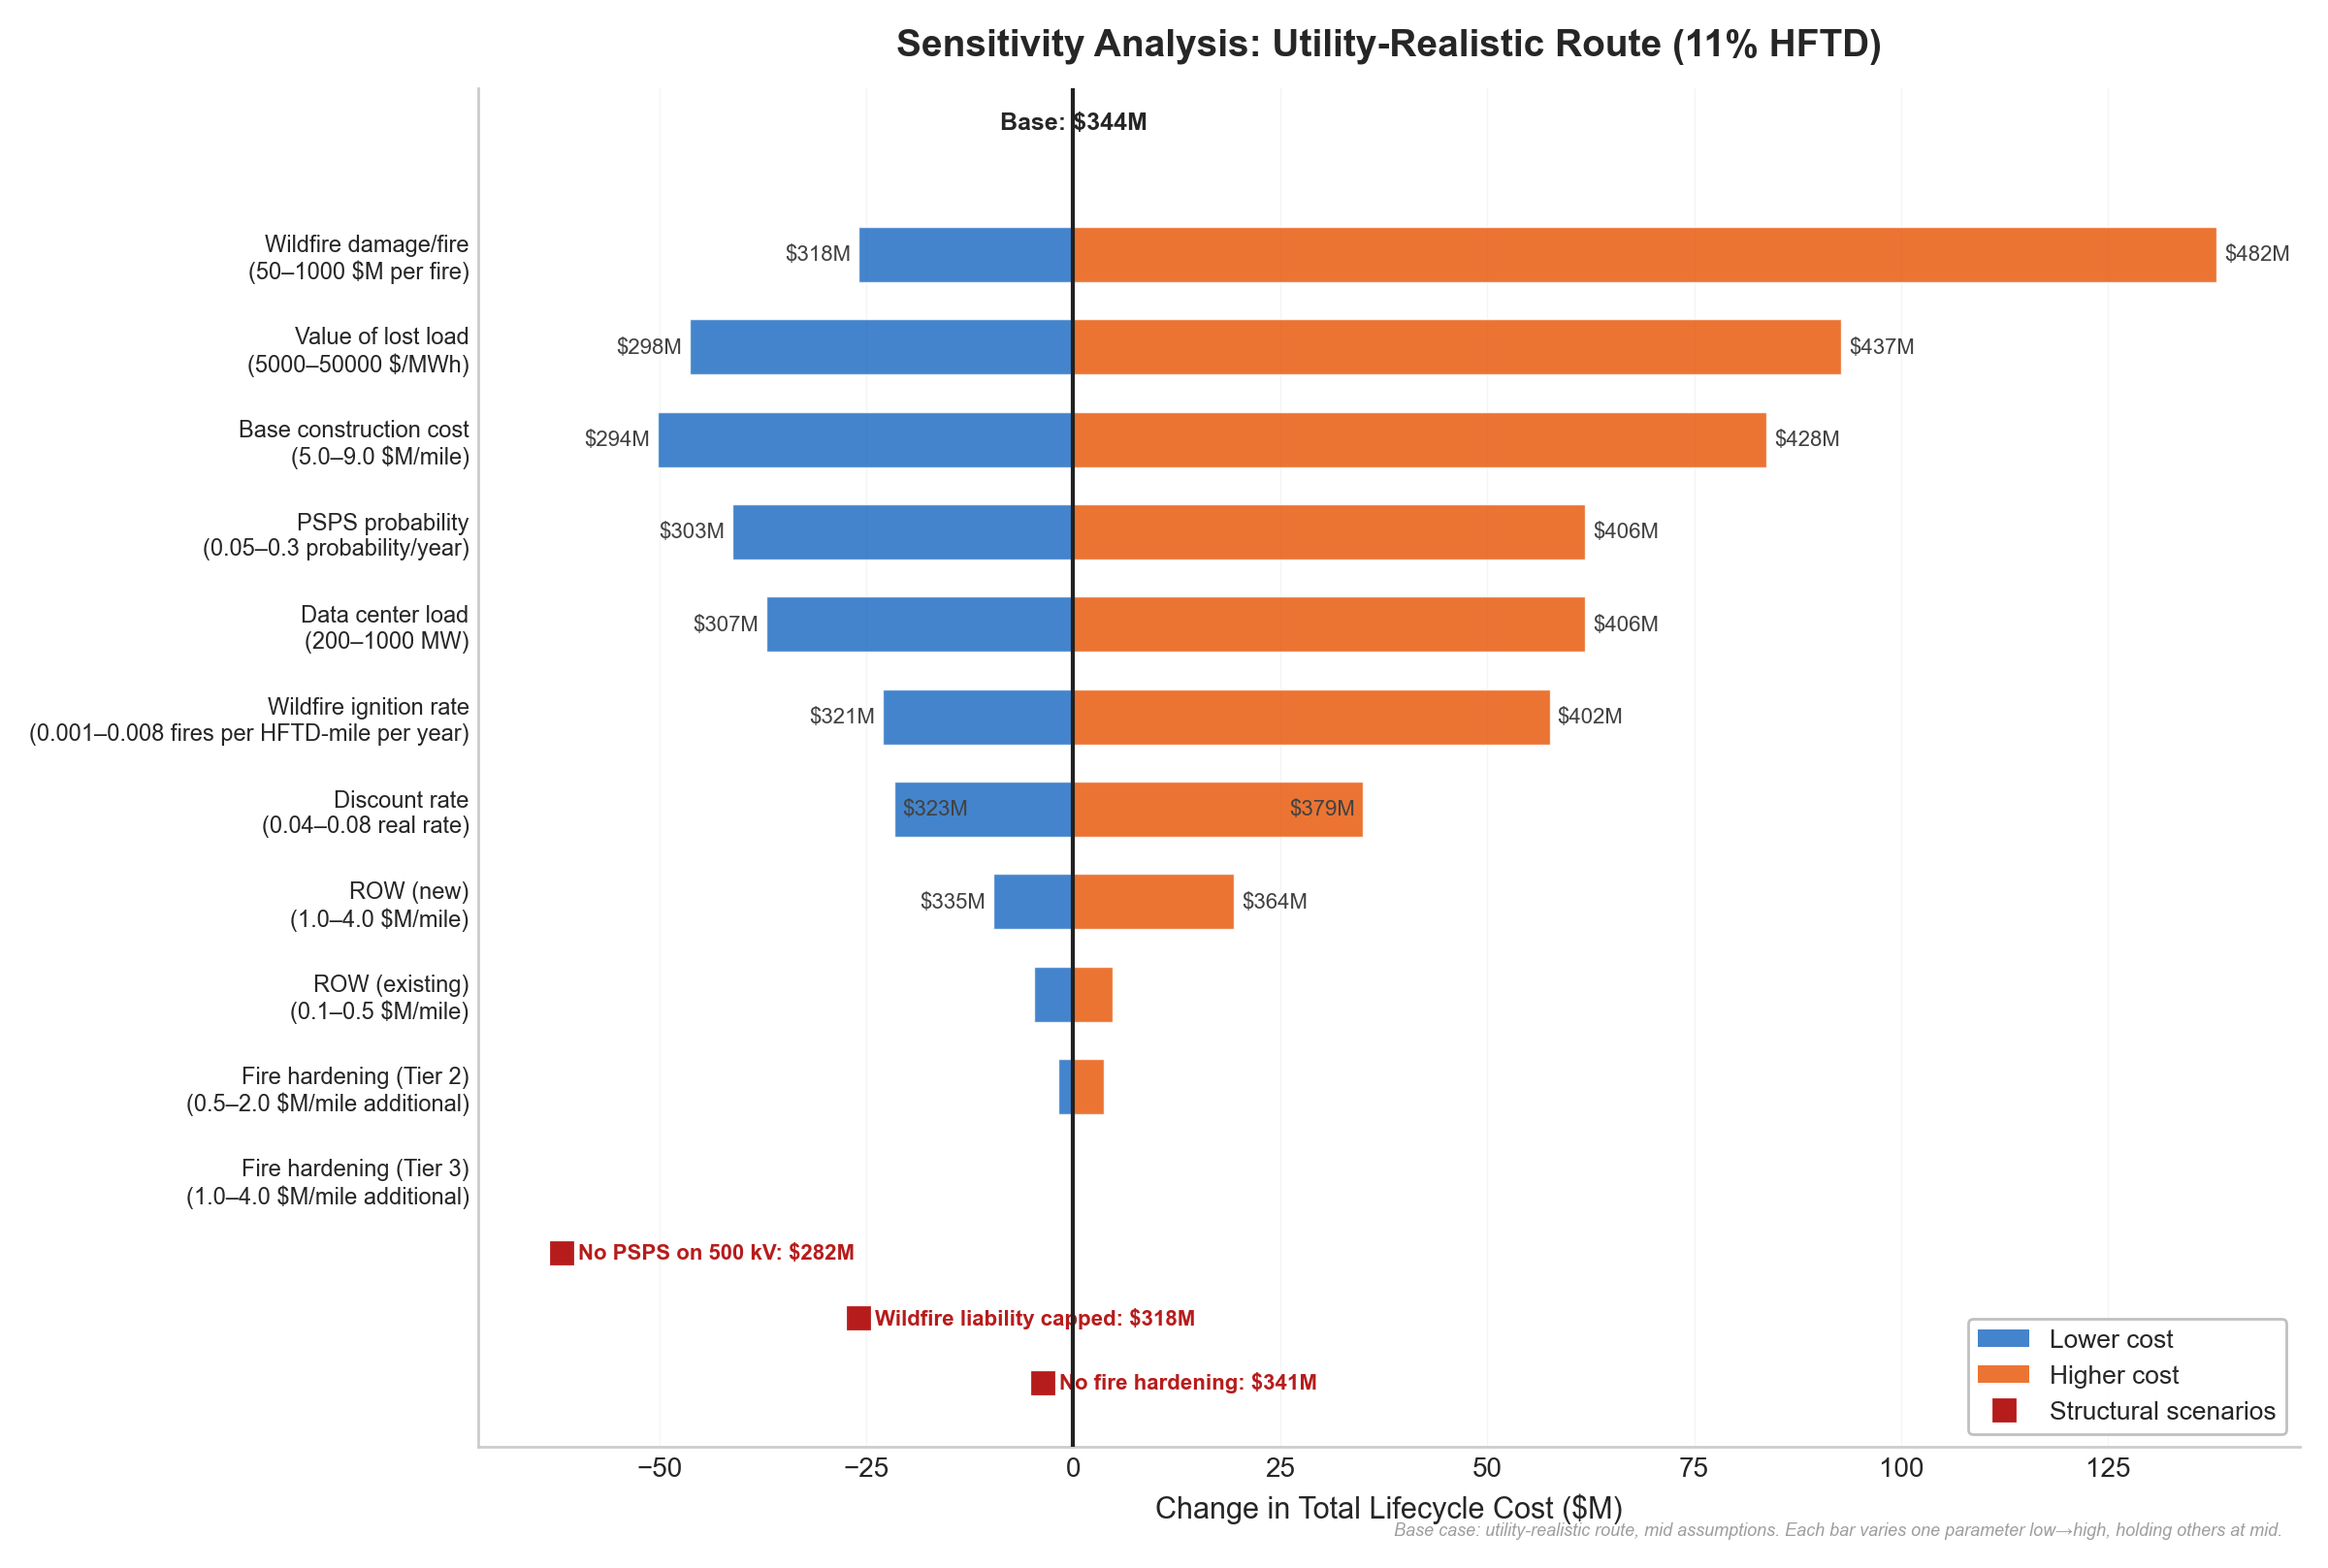
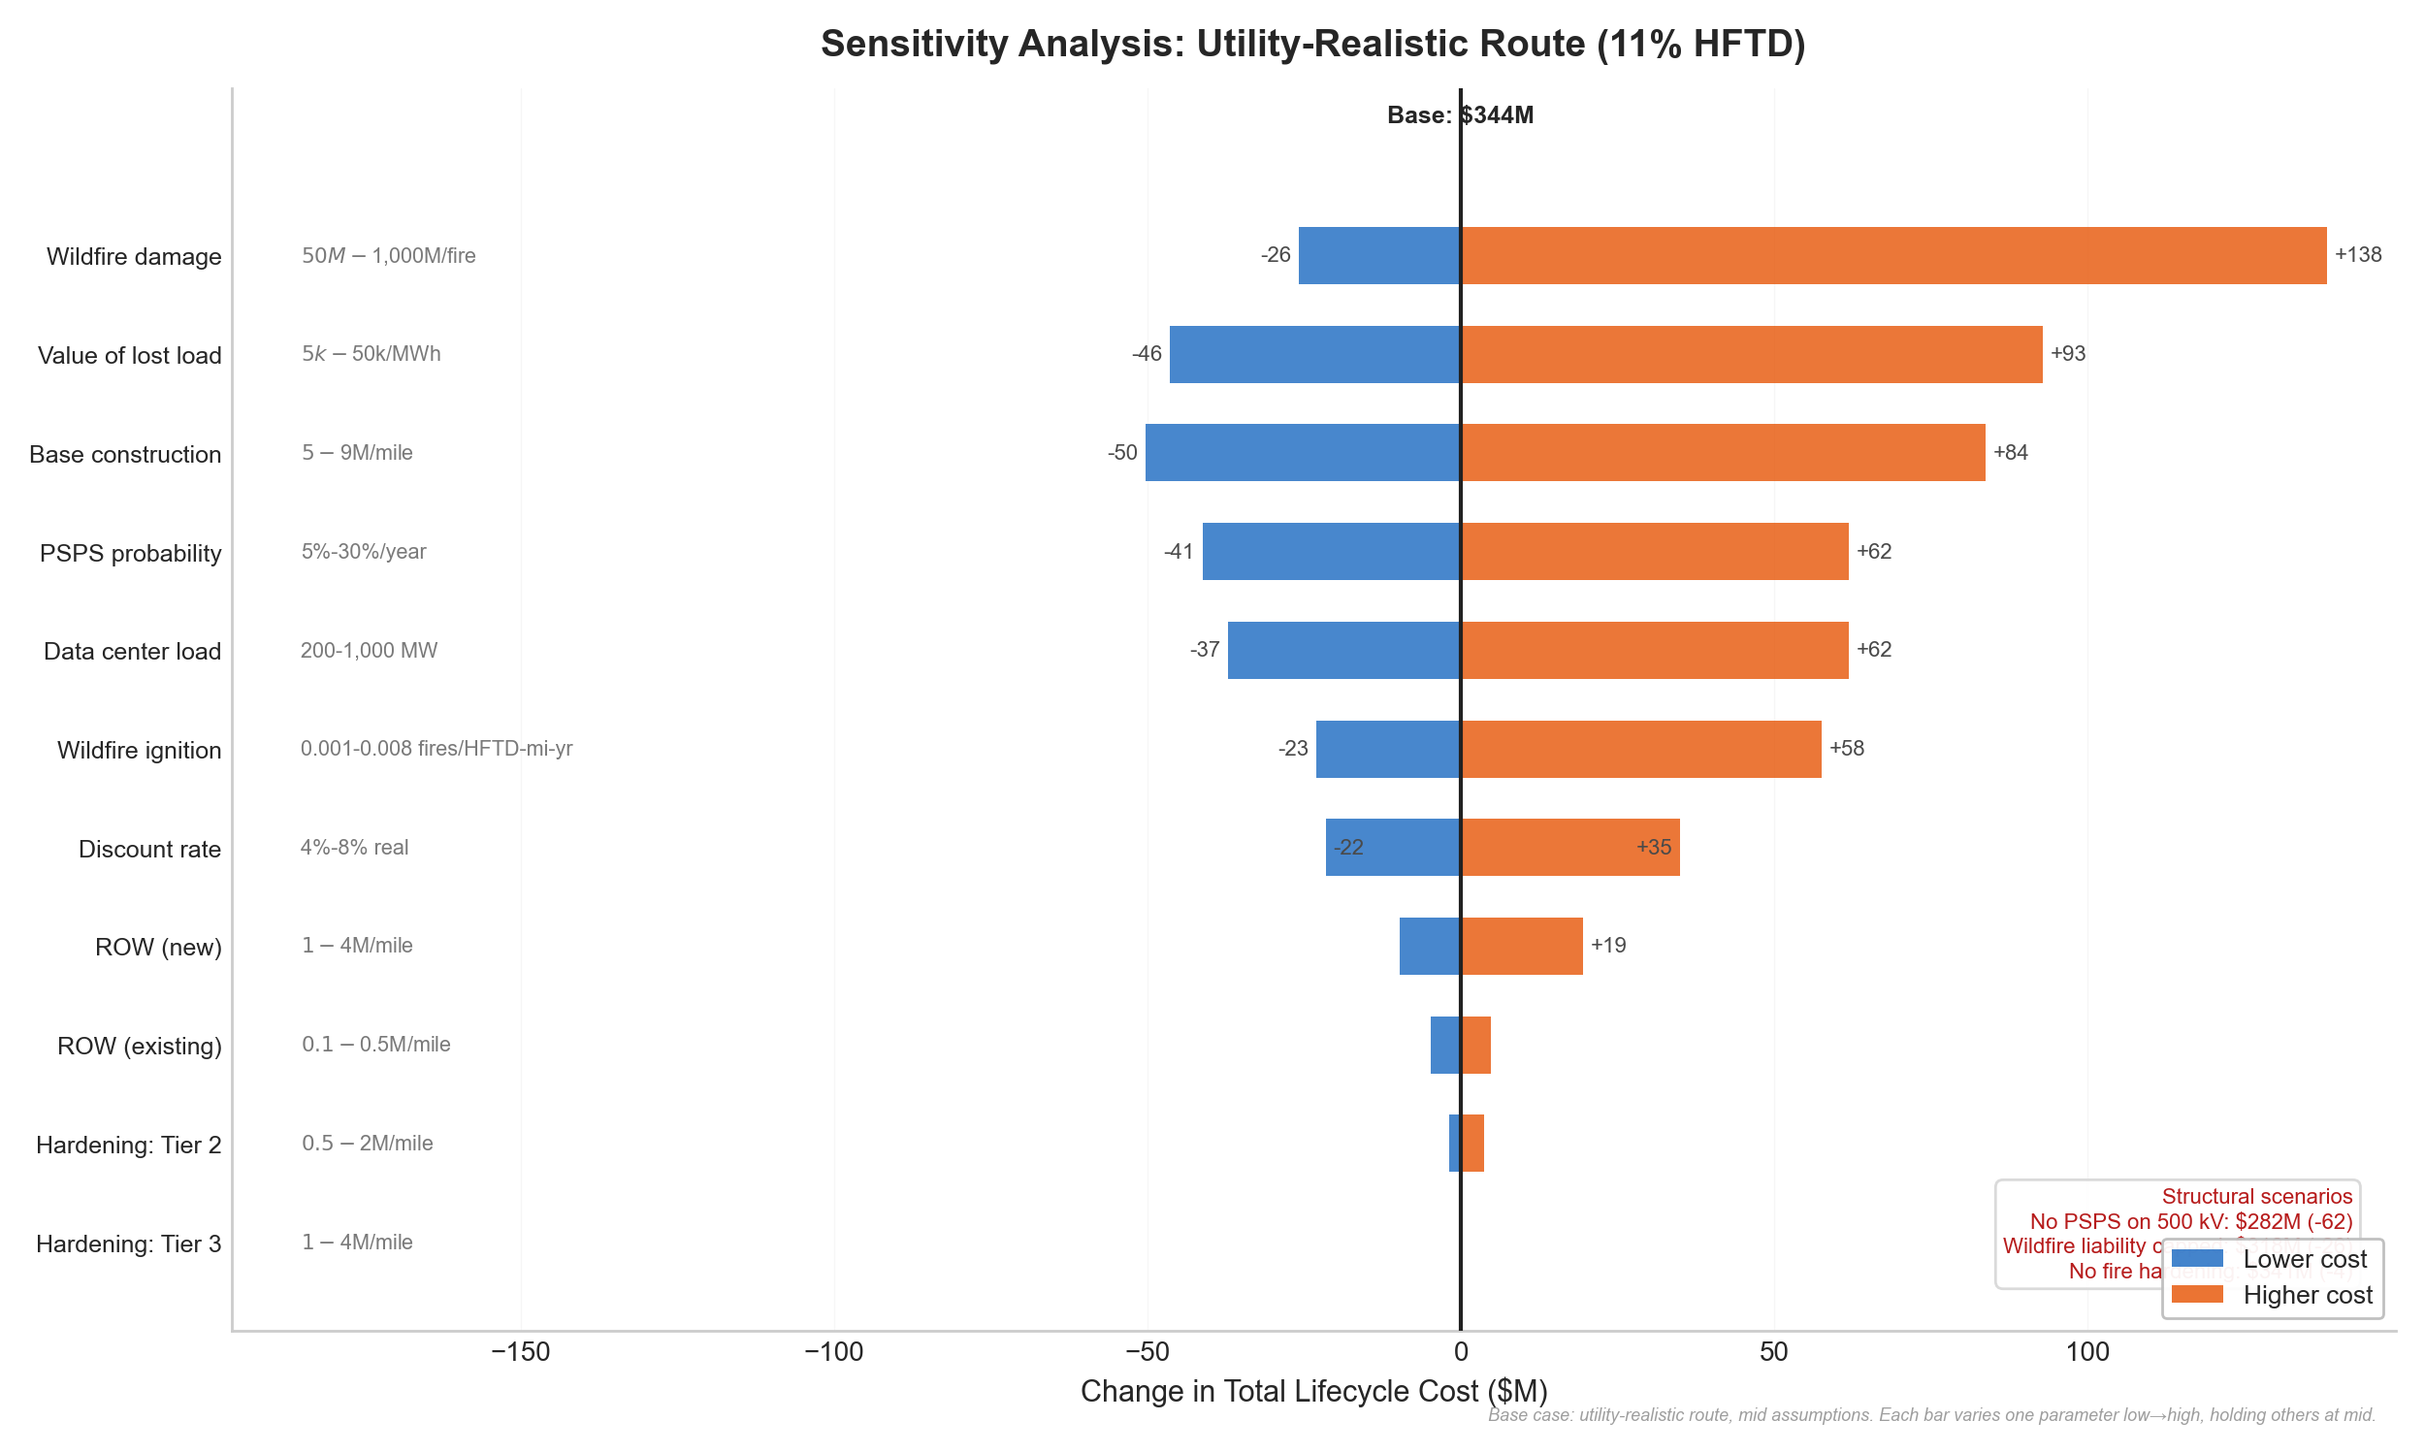
Refresh fire risk blog sensitivity figure

diff --git a/blog/california-data-center-fire-risk.html b/blog/california-data-center-fire-risk.html
@@ -691,7 +691,7 @@
 <p>Base case: utility-realistic route (11% HFTD), mid assumptions. Total lifecycle cost: <strong>$344M</strong>.</p>
 <figure class="wide">
 <img src="dc-fire-figures/fig_sensitivity_tornado.png" alt="Figure D1: Sensitivity tornado chart">
-<figcaption><strong>Figure D1.</strong> One-at-a-time sensitivity analysis for the utility-realistic route. Bars show the change in total lifecycle cost when each parameter is varied from low to high. Blue = lower cost, orange = higher cost. Red squares show structural "what if" scenarios. Wildfire damage, value of lost load, and base construction cost are the three largest drivers of uncertainty. Data: author's cost model.</figcaption>
+<figcaption><strong>Figure D1.</strong> One-at-a-time sensitivity analysis for the utility-realistic route. Bars show the change in total lifecycle cost when each parameter is varied from low to high. Blue = lower cost, orange = higher cost. The note box summarizes three structural "what if" scenarios. Wildfire damage, value of lost load, and base construction cost are the three largest drivers of uncertainty. Data: author's cost model.</figcaption>
 </figure>
 <table>
 <thead>
@@ -846,6 +846,7 @@
 </details>
 <hr>
 <p><em>This analysis uses only public data and open-source tools. It is independent research — not affiliated with any utility, developer, or regulatory party.</em></p>
+
 
 
 
